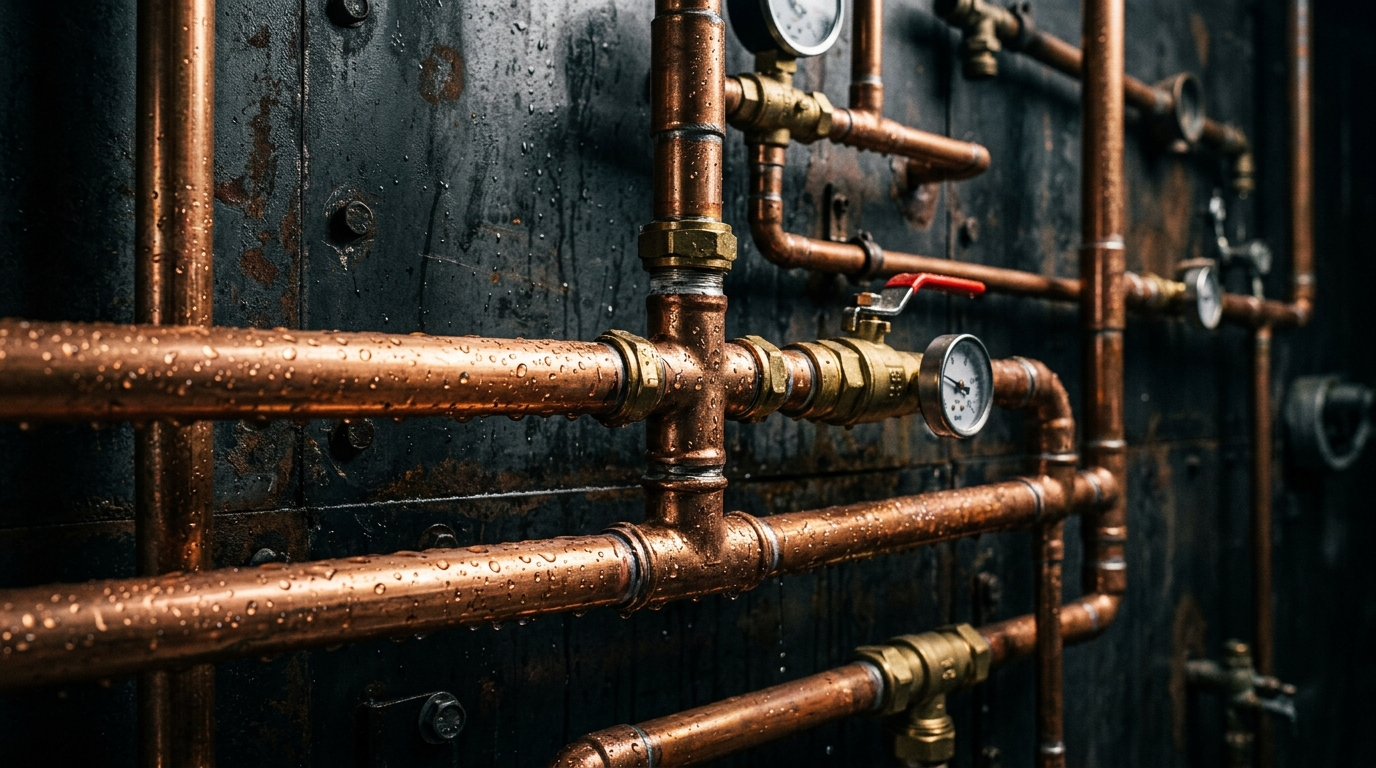
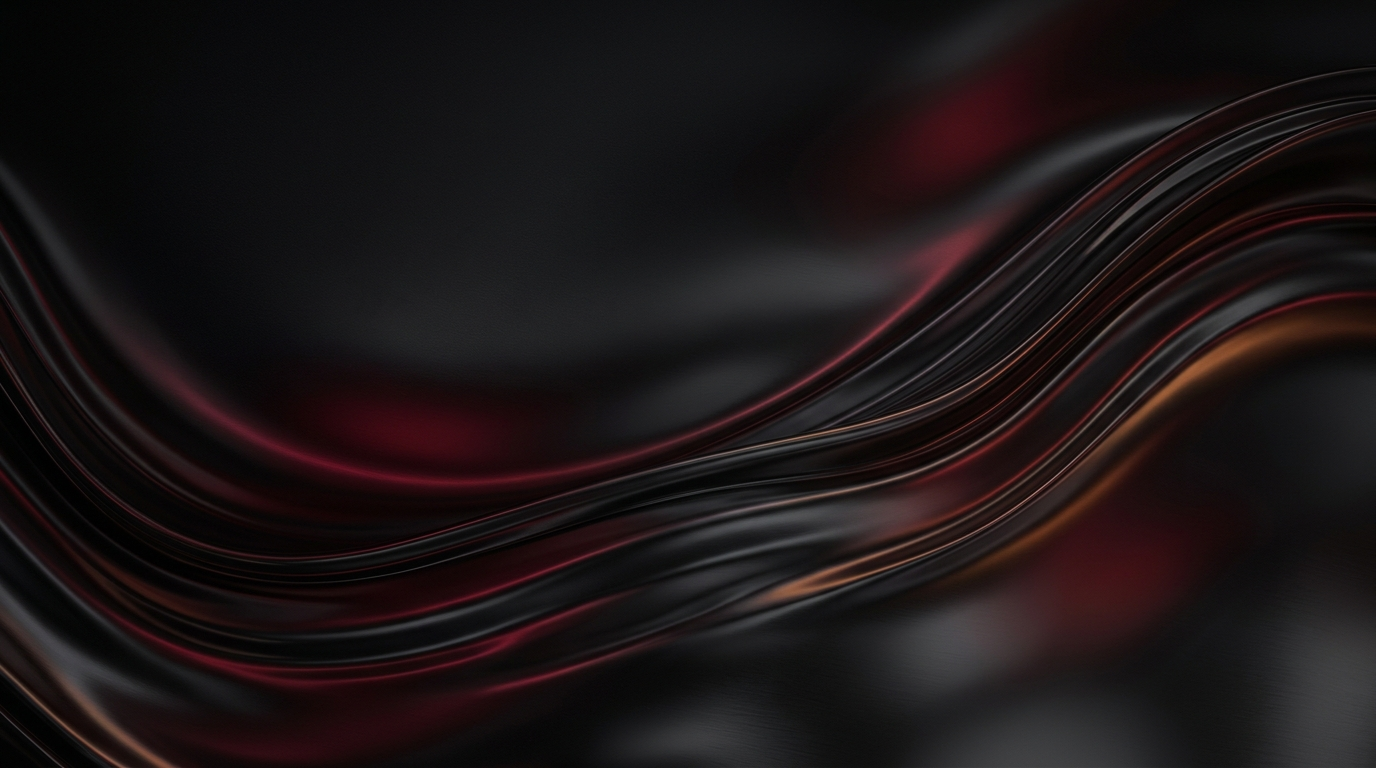
style: replace hero background with sleek high-contrast dark ambient texture

diff --git a/components/ui/animated-hero.tsx b/components/ui/animated-hero.tsx
@@ -31,14 +31,15 @@ function Hero() {
 
   return (
     <div className="relative w-full min-h-screen flex items-center justify-center overflow-hidden py-24 md:py-32">
-      {/* Imagen de fondo texturizada con overlay oscuro */}
+      {/* Imagen de fondo texturizada con overlay oscuro y viñetado para máxima legibilidad */}
       <div 
-        className="absolute inset-0 bg-cover bg-center z-0 transition-transform duration-1000"
+        className="absolute inset-0 bg-cover bg-center z-0 transition-transform duration-1000 opacity-50 filter brightness-75 contrast-125"
         style={{ 
           backgroundImage: "url('/hero-bg.jpg')",
         }}
       />
-      <div className="absolute inset-0 bg-gradient-to-b from-zinc-950/90 via-zinc-950/80 to-zinc-950 z-10" />
+      <div className="absolute inset-0 bg-gradient-to-b from-zinc-950/80 via-zinc-950/60 to-zinc-950 z-10" />
+      <div className="absolute inset-0 bg-[radial-gradient(ellipse_at_center,transparent_30%,rgba(9,9,11,0.9)_100%)] z-10 pointer-events-none" />
 
 
 

diff --git a/HANDOFF.md b/HANDOFF.md
@@ -28,5 +28,7 @@
 - Se inicializó y subió el repositorio local de Git a GitHub (`Tu-Web-Ya/los-plomeros`).
 - Se vinculó y desplegó exitosamente a producción en Vercel (`https://los-plomeros.vercel.app`) con webhook de auto-despliegue activo.
 - Se movió la imagen de fondo `hero-bg.jpg` de la raíz a la carpeta `public/` para solucionar la ruta 404 del hero en producción.
+- Se reemplazó el fondo por un diseño abstracto oscuro de alta definición con reflejos sutiles de luz ambiental y viñetado radial para maximizar el contraste y legibilidad de las letras del Hero.
+
 
 